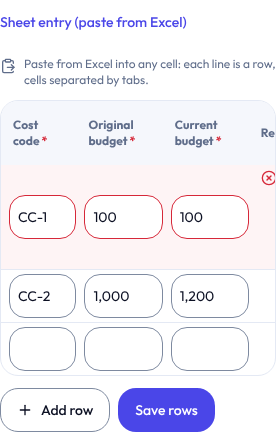
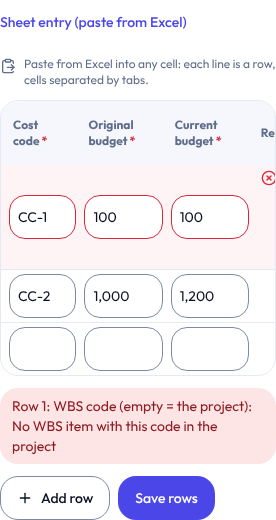
screens: D-74 (b) 00b5c6e retaken with the problems list
Claude-Session: https://claude.ai/code/session_01GqQTrsf1A3kK1eeRxvQgsY

diff --git a/d-74/b/README.md b/d-74/b/README.md
@@ -1,1 +1,1 @@
-D-74 (b) 00b5c6e: the WBS and budget sheets after Save rows: WBS rows saved; a budget row with an unknown WBS code refused on its row. Taken before the per-sheet problems list was added (the list under the sheet is not in these images). Mocked tRPC replies.
+D-74 (b) 00b5c6e: the WBS and budget sheets after Save rows: WBS rows saved; a budget row with an unknown WBS code refused on its row and named again under the sheet. Mocked tRPC replies.
